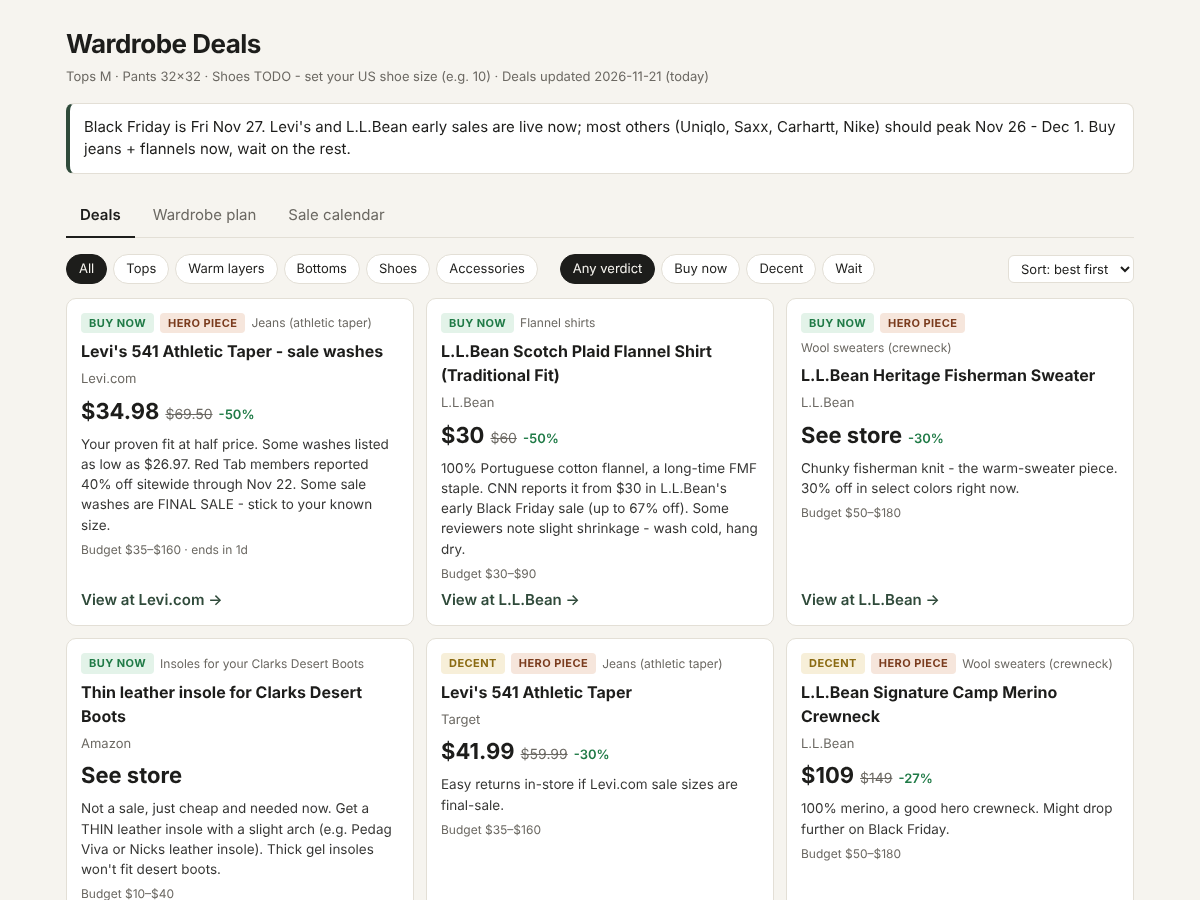
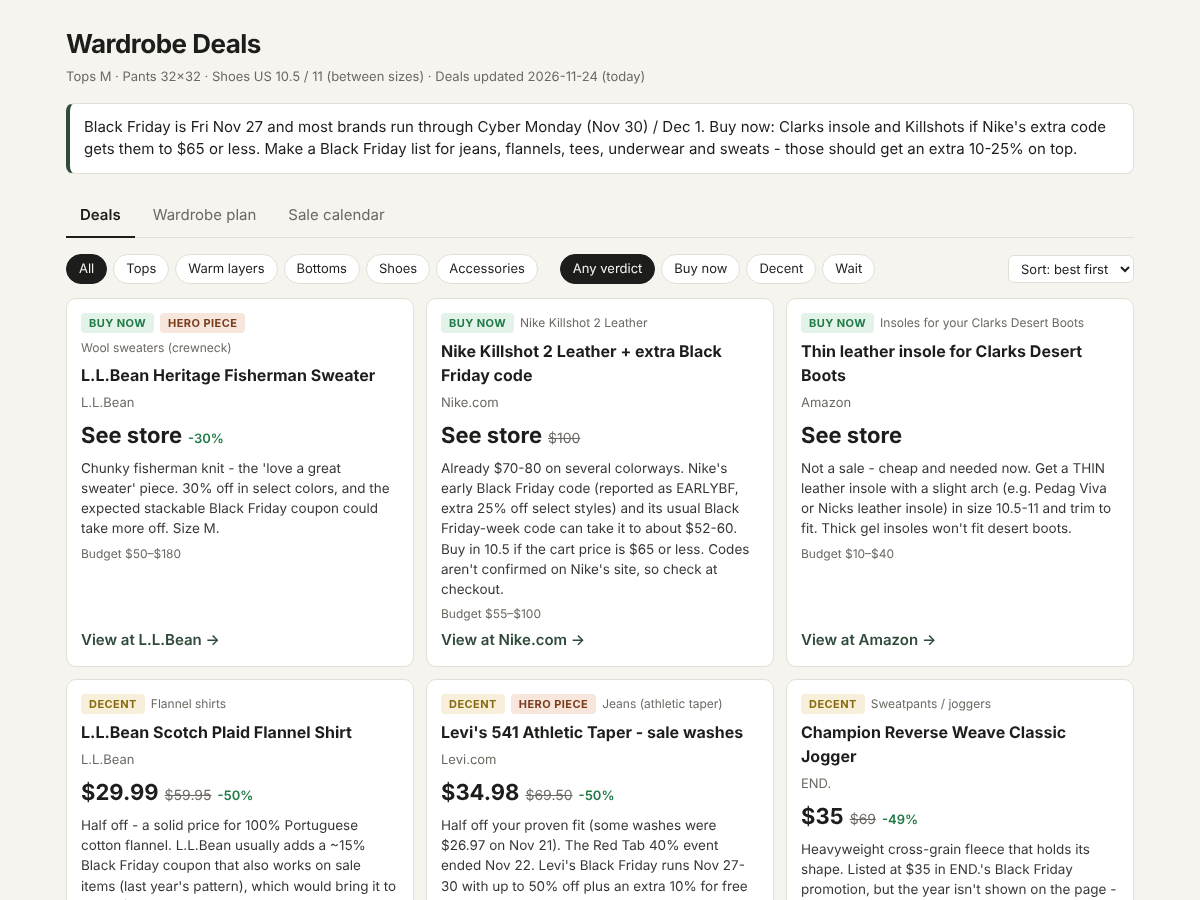
Refresh deals for Black Friday week (Nov 24)
Claude-Session: https://claude.ai/code/session_01DtwXJFMq9aoHoK9xk7XsUx

diff --git a/data/deals.js b/data/deals.js
@@ -2,19 +2,49 @@
 // Prices are snapshots from the date in "found" - always confirm on the store page before buying.
 
 window.DEALS = {
-  lastUpdated: "2026-11-21",
-  summary: "Black Friday is Fri Nov 27. Levi's and L.L.Bean early sales are live now; most others (Uniqlo, Saxx, Carhartt, Nike) should peak Nov 26 - Dec 1. Buy jeans + flannels now, wait on the rest.",
+  lastUpdated: "2026-11-24",
+  summary: "Black Friday is Fri Nov 27 and most brands run through Cyber Monday (Nov 30) / Dec 1. Buy now: Clarks insole and Killshots if Nike's extra code gets them to $65 or less. Make a Black Friday list for jeans, flannels, tees, underwear and sweats - those should get an extra 10-25% on top.",
 
   deals: [
+    {
+      item: "sneakers",
+      title: "Nike Killshot 2 Leather + extra Black Friday code",
+      store: "Nike.com",
+      url: "https://nike.com/t/killshot-2-leather-shoes-72M7D1/HQ1657-100",
+      price: null, was: 100.00,
+      verdict: "buy",
+      why: "Already $70-80 on several colorways. Nike's early Black Friday code (reported as EARLYBF, extra 25% off select styles) and its usual Black Friday-week code can take it to about $52-60. Buy in 10.5 if the cart price is $65 or less. Codes aren't confirmed on Nike's site, so check at checkout.",
+      found: "2026-11-24"
+    },
+    {
+      item: "boot-insole",
+      title: "Thin leather insole for Clarks Desert Boots",
+      store: "Amazon",
+      url: "https://www.amazon.com/s?k=thin+leather+insole+arch+support+men",
+      price: null, was: null,
+      verdict: "buy",
+      why: "Not a sale - cheap and needed now. Get a THIN leather insole with a slight arch (e.g. Pedag Viva or Nicks leather insole) in size 10.5-11 and trim to fit. Thick gel insoles won't fit desert boots.",
+      found: "2026-11-24"
+    },
+    {
+      item: "flannel",
+      title: "L.L.Bean Scotch Plaid Flannel Shirt",
+      store: "L.L.Bean",
+      url: "https://www.llbean.com/llb/shop/32?nav=gnro&page=sale",
+      price: 29.99, was: 59.95,
+      verdict: "ok",
+      why: "Half off - a solid price for 100% Portuguese cotton flannel. L.L.Bean usually adds a ~15% Black Friday coupon that also works on sale items (last year's pattern), which would bring it to about $25. Buy now only if your color/size is running out. Wash cold, hang dry (some shrinkage reported).",
+      found: "2026-11-24"
+    },
     {
       item: "jeans",
       title: "Levi's 541 Athletic Taper - sale washes",
       store: "Levi.com",
       url: "https://www.levi.com/US/en_US/sale/mens/c/levi_clothing_men_sale/facets/feature-fit_name/541%e2%84%a2",
       price: 34.98, was: 69.50,
-      verdict: "buy",
-      why: "Your proven fit at half price. Some washes listed as low as $26.97. Red Tab members reported 40% off sitewide through Nov 22. Some sale washes are FINAL SALE - stick to your known size.",
-      found: "2026-11-21", ends: "2026-11-22"
+      verdict: "ok",
+      why: "Half off your proven fit (some washes were $26.97 on Nov 21). The Red Tab 40% event ended Nov 22. Levi's Black Friday runs Nov 27-30 with up to 50% off plus an extra 10% for free Red Tab members. Many sale washes are FINAL SALE, so stick to 32x32.",
+      found: "2026-11-24", ends: "2026-11-30"
     },
     {
       item: "jeans",
@@ -23,17 +53,7 @@ window.DEALS = {
       url: "https://www.target.com/p/-/-/A-88232941",
       price: 41.99, was: 59.99,
       verdict: "ok",
-      why: "Easy returns in-store if Levi.com sale sizes are final-sale.",
-      found: "2026-11-21"
-    },
-    {
-      item: "flannel",
-      title: "L.L.Bean Scotch Plaid Flannel Shirt (Traditional Fit)",
-      store: "L.L.Bean",
-      url: "https://www.llbean.com/llb/search/?freeText=scotch+plaid+flannel+shirt+men",
-      price: 30.00, was: 60.00,
-      verdict: "buy",
-      why: "100% Portuguese cotton flannel, a long-time FMF staple. CNN reports it from $30 in L.L.Bean's early Black Friday sale (up to 67% off). Some reviewers note slight shrinkage - wash cold, hang dry.",
+      why: "A few dollars more than Levi.com, but with easy in-store returns if you want to try washes on.",
       found: "2026-11-21"
     },
     {
@@ -43,48 +63,88 @@ window.DEALS = {
       url: "https://www.cnn.com/cnn-underscored/deals/ll-bean-early-black-friday-sale-2026-10-27",
       price: null, was: null, discountPct: 30,
       verdict: "buy",
-      why: "Chunky fisherman knit - the warm-sweater piece. 30% off in select colors right now.",
+      why: "Chunky fisherman knit - the 'love a great sweater' piece. 30% off in select colors, and the expected stackable Black Friday coupon could take more off. Size M.",
       found: "2026-11-21"
+    },
+    {
+      item: "sweater",
+      title: "Bonobos Washable Merino Wool V-Neck",
+      store: "Bonobos",
+      url: "https://dappered.com/2026/11/bonobos-30-40-off-most-black-friday-2026/",
+      price: 59.40, was: 99.00,
+      verdict: "ok",
+      why: "40% off merino. It's a V-neck (your plan says crewneck), but a merino V layers cleanly over a dress shirt for work. Sale runs through Dec 1.",
+      found: "2026-11-24", ends: "2026-12-01"
+    },
+    {
+      item: "sweater",
+      title: "L.L.Bean Wicked Soft Cotton/Cashmere Crewneck",
+      store: "L.L.Bean",
+      url: "https://www.llbean.com/llb/shop/32?nav=gnro&page=sale",
+      price: 54.99, was: 79.95,
+      verdict: "ok",
+      why: "Cotton/cashmere: softer and easier to wash than wool, a little less warm. Good everyday crewneck at about 31% off. Listing date wasn't shown - confirm price.",
+      found: "2026-11-24"
     },
     {
       item: "sweater",
       title: "L.L.Bean Signature Camp Merino Crewneck",
       store: "L.L.Bean",
-      url: "https://www.llbean.com/llb/search/?freeText=merino+crewneck+sweater+men",
+      url: "https://global.llbean.com/llb/shop/5800142.html",
       price: 109.00, was: 149.00,
-      verdict: "ok",
-      why: "100% merino, a good hero crewneck. Might drop further on Black Friday.",
+      verdict: "wait",
+      why: "100% merino hero crewneck. Wait for the Black Friday coupon (Nov 27) to stack on the sale price.",
       found: "2026-11-21"
+    },
+    {
+      item: "sweater",
+      title: "J.Crew cashmere (up to 50% off select)",
+      store: "J.Crew",
+      url: "https://www.jcrew.com/shop/black-friday-event/mens",
+      price: null, was: null, discountPct: 40,
+      verdict: "ok",
+      why: "J.Crew's Black Friday event is 40% off select full-price items, plus an extra 40% off final-sale items with code FRIDAY (per Dappered). Their cashmere crews are a reliable mid-tier pick. Check which are final sale before buying.",
+      found: "2026-11-24"
     },
     {
       item: "sweater",
       title: "Uniqlo 100% Cashmere Crewneck",
       store: "Uniqlo",
-      url: "https://www.uniqlo.com/us/en/men/sweaters-and-cardigans",
+      url: "https://www.uniqlo.com/us/en/spl/black-friday-sale",
       price: 79.90, was: null,
       verdict: "ok",
-      why: "Best-value real cashmere. Softer than wool but less durable (pills at elbows). Listed by Dappered for Black Friday.",
+      why: "Best-value real cashmere. Softer than wool but pills sooner at the elbows. Uniqlo's Thank You Event runs through Nov 26, then its Black Friday offers start Nov 27.",
       found: "2026-11-21"
     },
     {
-      item: "sneakers",
-      title: "Nike Killshot 2 Leather (select colorways)",
-      store: "Nike.com",
-      url: "https://www.nike.com/w/killshot-shoes",
-      price: 69.97, was: 100.00,
+      item: "tee-black",
+      title: "Carhartt K87 Pocket Tee - 2 for $30",
+      store: "Carhartt / Amazon",
+      url: "https://www.carhartt.com/category/carhartt-black-friday-sale",
+      price: 15.00, was: 20.00,
       verdict: "wait",
-      why: "30% off on some colorways. Foot Locker has $75, Walmart one colorway at $65. Nike usually adds an extra code on Black Friday - wait for that unless your size is selling out.",
-      found: "2026-11-21"
+      why: "Rakuten lists a K87 '2 for $30' offer for Black Friday (unverified). It has been $13.68 on Amazon before, so aim for $14 or less per shirt. Solid black/white are 100% cotton; heathers are blends.",
+      found: "2026-11-24"
     },
     {
       item: "tee-white-casual",
-      title: "Carhartt K87 Pocket Tee",
+      title: "Carhartt K87 Pocket Tee - White",
       store: "Carhartt / Amazon",
-      url: "https://www.carhartt.com/c/black-friday",
+      url: "https://www.amazon.com/s?k=carhartt+k87+pocket+t-shirt+white",
       price: 16.00, was: 20.00,
       verdict: "wait",
-      why: "Some colors at $16 now. Has been $13.68 on Amazon and reported '2 for $30' for Black Friday. Buy solid white/black (100% cotton), not heathers (poly blend).",
+      why: "Same as the black tees - buy them together on Black Friday at $14 or less each. Heavyweight 6.75oz cotton, very durable.",
       found: "2026-11-21"
+    },
+    {
+      item: "underwear",
+      title: "Saxx boxer briefs - Black Friday sale",
+      store: "Saxx",
+      url: "https://www.saxxunderwear.com/",
+      price: null, was: null, discountPct: 40,
+      verdict: "wait",
+      why: "Black Friday is Saxx's best sale of the year; past years were up to 40% off sitewide (2026 terms not confirmed yet). At ~$20/pair that's a good price for underwear that lasts. Check Nov 27.",
+      found: "2026-11-24"
     },
     {
       item: "underwear",
@@ -93,28 +153,18 @@ window.DEALS = {
       url: "https://www.exofficio.com/sale/men/underwear/",
       price: 16.99, was: 32.50,
       verdict: "wait",
-      why: "Very durable travel-style underwear at about half off, but sizes were out of stock. Check again on Black Friday.",
+      why: "About half off and very durable, but sizes were out of stock on Nov 21. Check again on Black Friday.",
       found: "2026-11-21"
     },
     {
-      item: "boots-upgrade",
-      title: "Astorflex Greenflex chukka",
-      store: "END. / Care of Carl",
-      url: "https://www.endclothing.com/us/brands/astorflex",
-      price: null, was: 215.00, discountPct: 40,
-      verdict: "wait",
-      why: "The closest upgrade to your Clarks. Some colors are 40% off at END. (EU listing, about $130 for US shipping). Runs large - size down to about US 10 / EU 44. Only buy at $150 or less.",
-      found: "2026-11-21"
-    },
-    {
-      item: "boot-insole",
-      title: "Thin leather insole for Clarks Desert Boots",
-      store: "Amazon",
-      url: "https://www.amazon.com/s?k=thin+leather+insole+arch+support+men",
+      item: "undershirt",
+      title: "Tommy John Second Skin undershirts",
+      store: "Tommy John",
+      url: "https://tommyjohn.com/pages/black-friday-special-offers",
       price: null, was: null,
-      verdict: "buy",
-      why: "Not a sale, just cheap and needed now. Get a THIN leather insole with a slight arch (e.g. Pedag Viva or Nicks leather insole). Thick gel insoles won't fit desert boots.",
-      found: "2026-11-21"
+      verdict: "wait",
+      why: "Black Friday is usually Tommy John's biggest sale (past years ~25-40% off). Get light grey or skin-tone deep V. If it isn't at least 30% off, Uniqlo AIRism V-necks are the value pick.",
+      found: "2026-11-24"
     },
     {
       item: "sweatpants",
@@ -123,16 +173,40 @@ window.DEALS = {
       url: "https://www.amazon.com/s?k=THE+GYM+PEOPLE+mens+fleece+joggers",
       price: 26.99, was: 32.99,
       verdict: "wait",
-      why: "You know it fits. Amazon Black Friday often adds 20-30% on top - aim for $22 or less, grey + navy.",
+      why: "You know they fit. Amazon's Black Friday deals often add 20-30% - aim for $22 or less in grey and navy.",
+      found: "2026-11-21"
+    },
+    {
+      item: "sweatpants",
+      title: "Champion Reverse Weave Classic Jogger",
+      store: "END.",
+      url: "https://endclothing.com/us/champion-reverse-weave-classic-jogger-210969-nbk.html",
+      price: 35.00, was: 69.00,
+      verdict: "ok",
+      why: "Heavyweight cross-grain fleece that holds its shape. Listed at $35 in END.'s Black Friday promotion, but the year isn't shown on the page - confirm the price and that size M is in stock.",
+      found: "2026-11-24"
+    },
+    {
+      item: "boots-upgrade",
+      title: "Astorflex Greenflex chukka",
+      store: "END. / Care of Carl",
+      url: "https://www.endclothing.com/us/brands/astorflex",
+      price: null, was: 215.00, discountPct: 40,
+      verdict: "wait",
+      why: "The closest upgrade to your Clarks. Some colors were 40% off at END. (EU listing). Runs large - look for EU 44 / about US 10. Only buy at $150 or less; post-holiday sales are often better.",
       found: "2026-11-21"
     }
   ],
 
   upcomingSales: [
-    { name: "Levi's Red Tab members: 40% off sitewide", start: "2026-11-19", end: "2026-11-22", items: ["jeans"], note: "Free membership. Also up to 65% off sale styles." },
-    { name: "L.L.Bean early Black Friday (up to 67% off)", start: "2026-10-27", end: "2026-11-30", items: ["flannel", "sweater", "belt"], note: "Already live." },
-    { name: "Uniqlo Thank You Event / Black Friday", start: "2026-11-20", end: "2026-11-26", items: ["tee-white-casual", "tee-black", "undershirt", "underwear", "sweater"], note: "20-50% off selected items; check the 'Limited Offers' page." },
-    { name: "Black Friday", start: "2026-11-27", end: "2026-11-27", items: ["sneakers", "underwear", "tee-black", "sweatpants"], note: "Nike, Saxx, Carhartt, Amazon peak." },
+    { name: "Uniqlo Thank You Event", start: "2026-11-20", end: "2026-11-26", items: ["tee-white-casual", "tee-black", "undershirt", "underwear", "sweater"], note: "Then Uniqlo Black Friday offers start Nov 27." },
+    { name: "J.Crew Black Friday: 40% off + extra 40% final sale (code FRIDAY)", start: "2026-11-20", end: "2026-11-30", items: ["sweater", "flannel"], note: "Per Dappered." },
+    { name: "Bonobos 30-40% off most items", start: "2026-11-20", end: "2026-12-01", items: ["sweater", "jeans"], note: "Merino sweaters 40% off." },
+    { name: "Nordstrom Black Friday", start: "2026-11-20", end: "2026-12-01", items: ["sneakers", "boots-upgrade", "sweater"], note: "Check for Astorflex, Red Wing, Nike." },
+    { name: "Nike Black Friday code (extra ~25% off sale)", start: "2026-11-17", end: "2026-11-30", items: ["sneakers"], note: "Early code reported Nov 17; Black Friday week code usually lands Thanksgiving." },
+    { name: "Black Friday", start: "2026-11-27", end: "2026-11-27", items: ["underwear", "undershirt", "tee-black", "tee-white-casual", "sweatpants"], note: "Saxx, Tommy John, Carhartt, Amazon peak." },
+    { name: "Levi's Black Friday: up to 50% off + 10% extra for Red Tab members", start: "2026-11-27", end: "2026-11-30", items: ["jeans"], note: "Free membership." },
+    { name: "L.L.Bean Black Friday coupon (expected ~15%, stacks on sale)", start: "2026-11-27", end: "2026-11-30", items: ["flannel", "sweater", "belt"], note: "Based on last year's pattern, not yet announced." },
     { name: "Cyber Monday", start: "2026-11-30", end: "2026-11-30", items: ["sneakers", "boots-upgrade", "jeans"], note: "Often the best extra codes (Nike, END., Huckberry)." },
     { name: "End-of-season / post-holiday sales", start: "2026-12-26", end: "2027-01-31", items: ["sweater", "flannel", "boots-upgrade"], note: "Winter knits and boots are cheapest after the holidays." }
   ]
